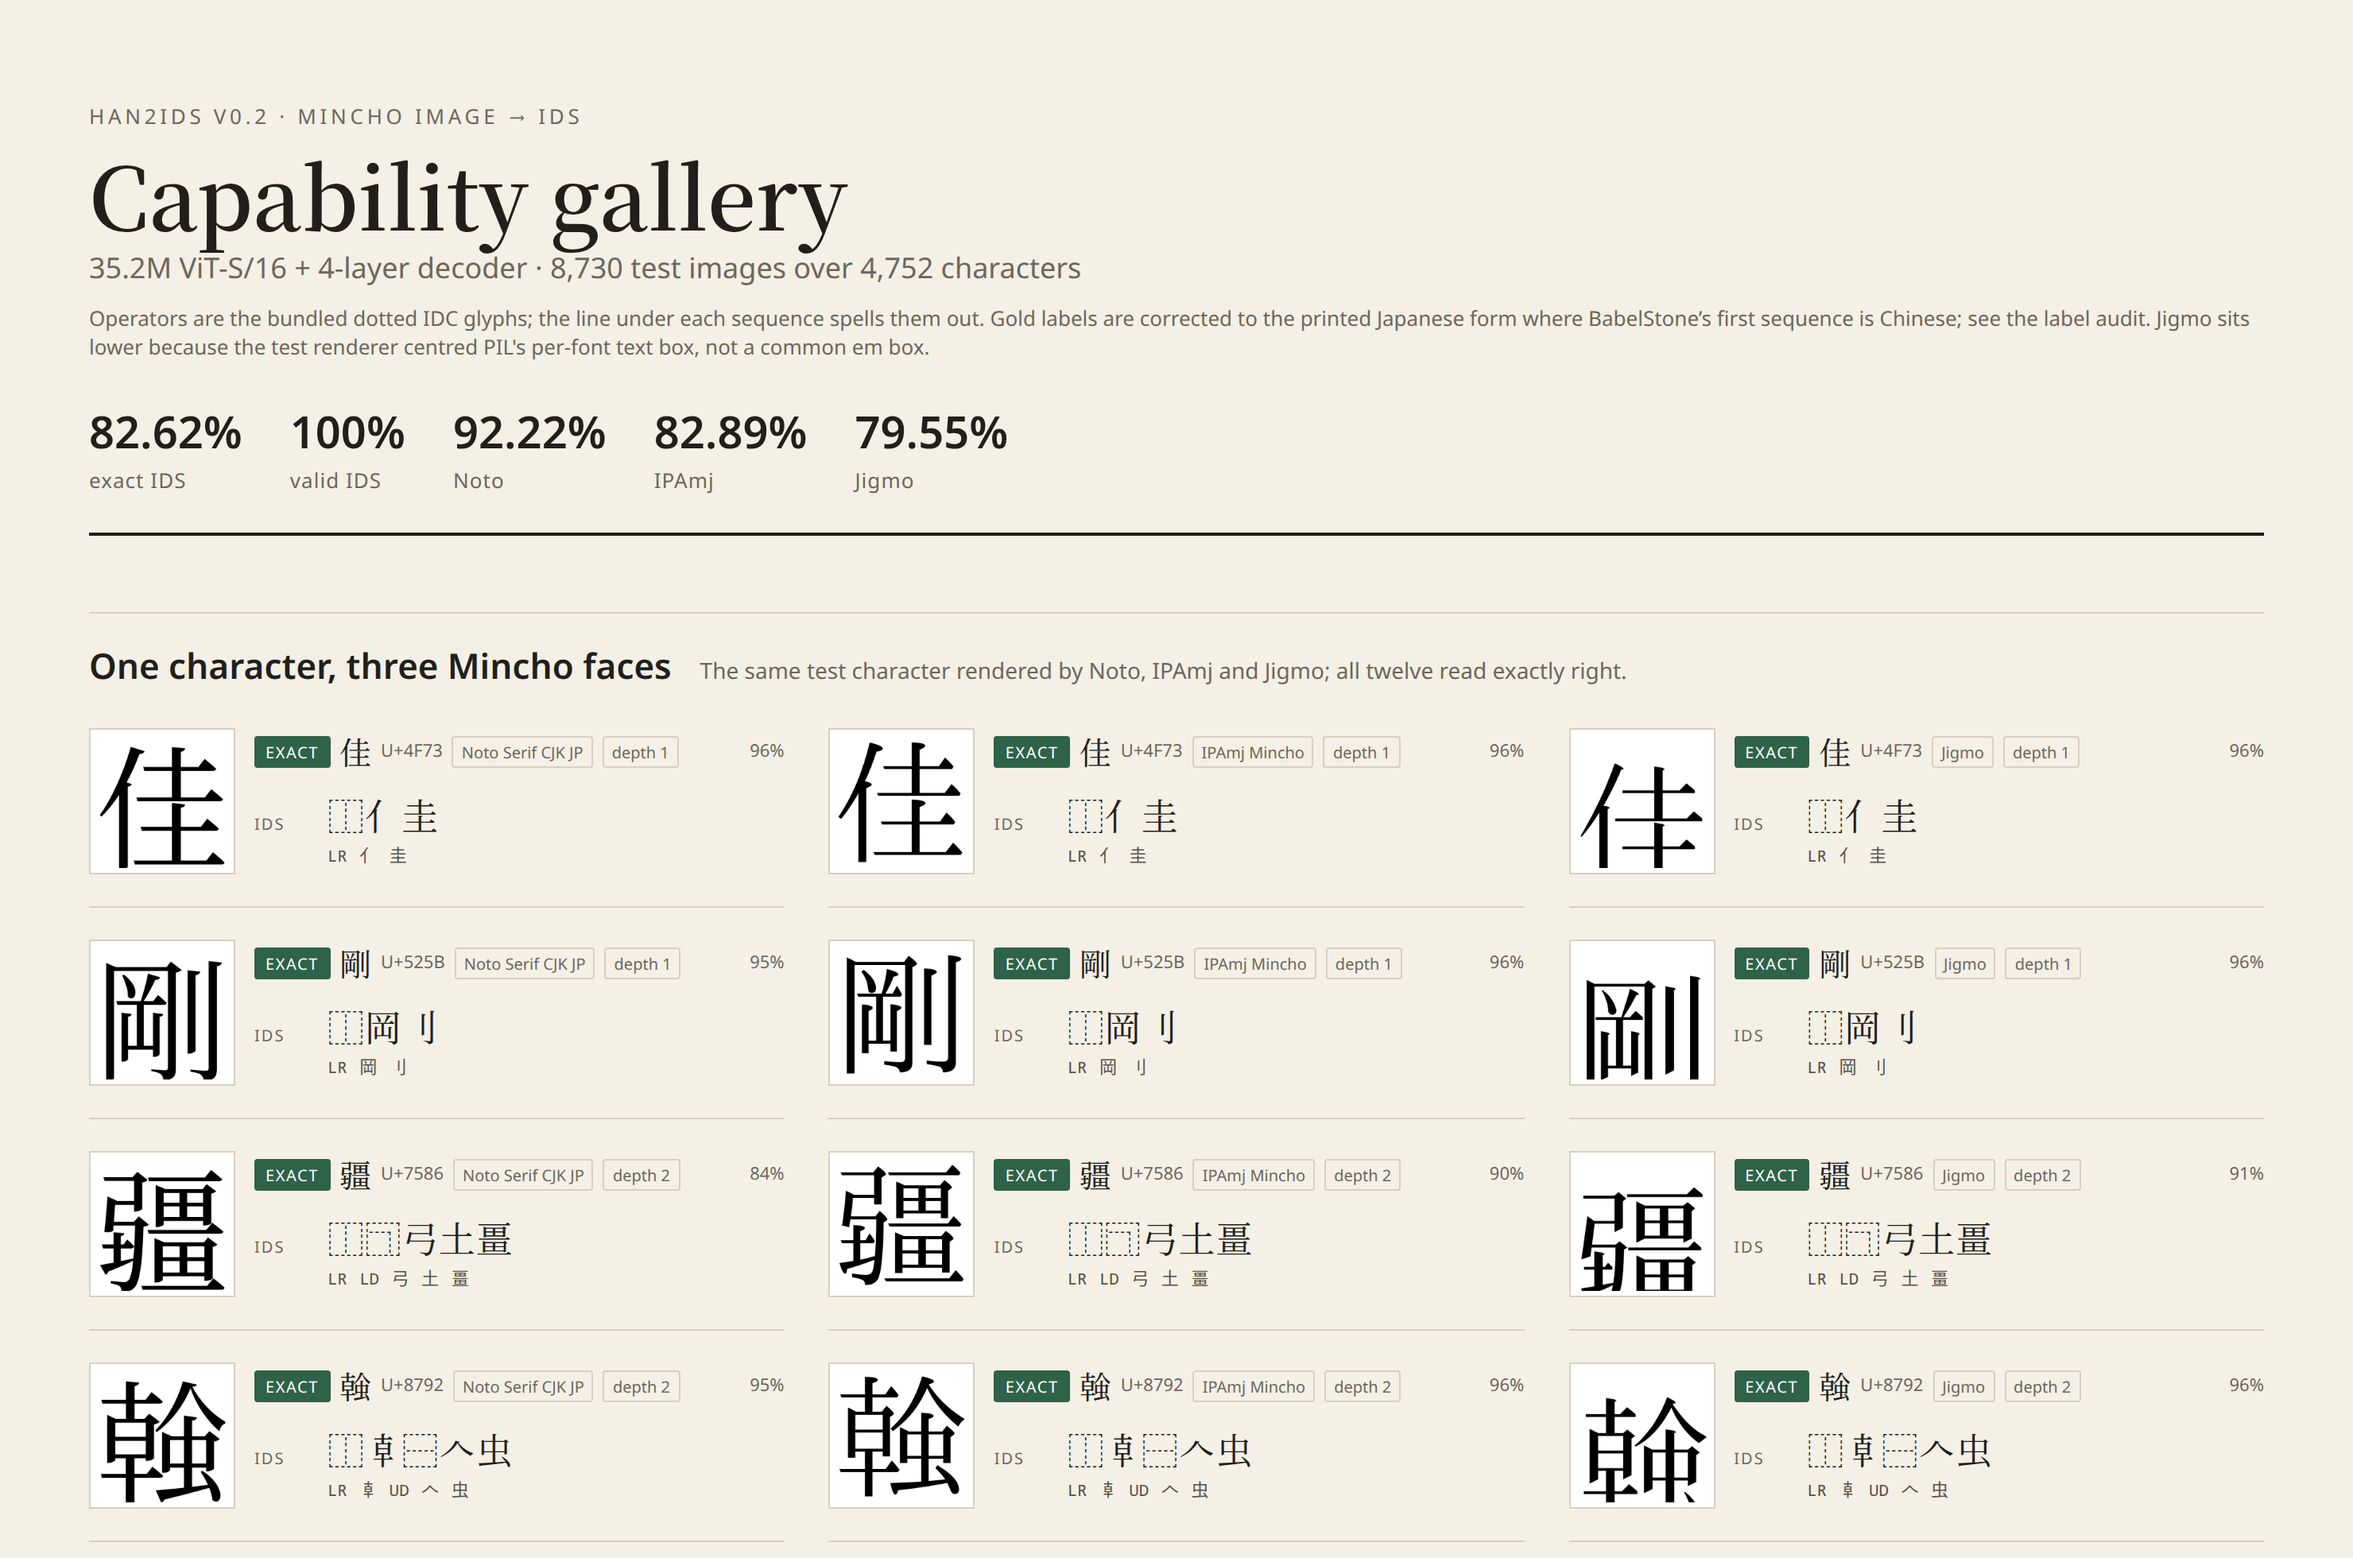
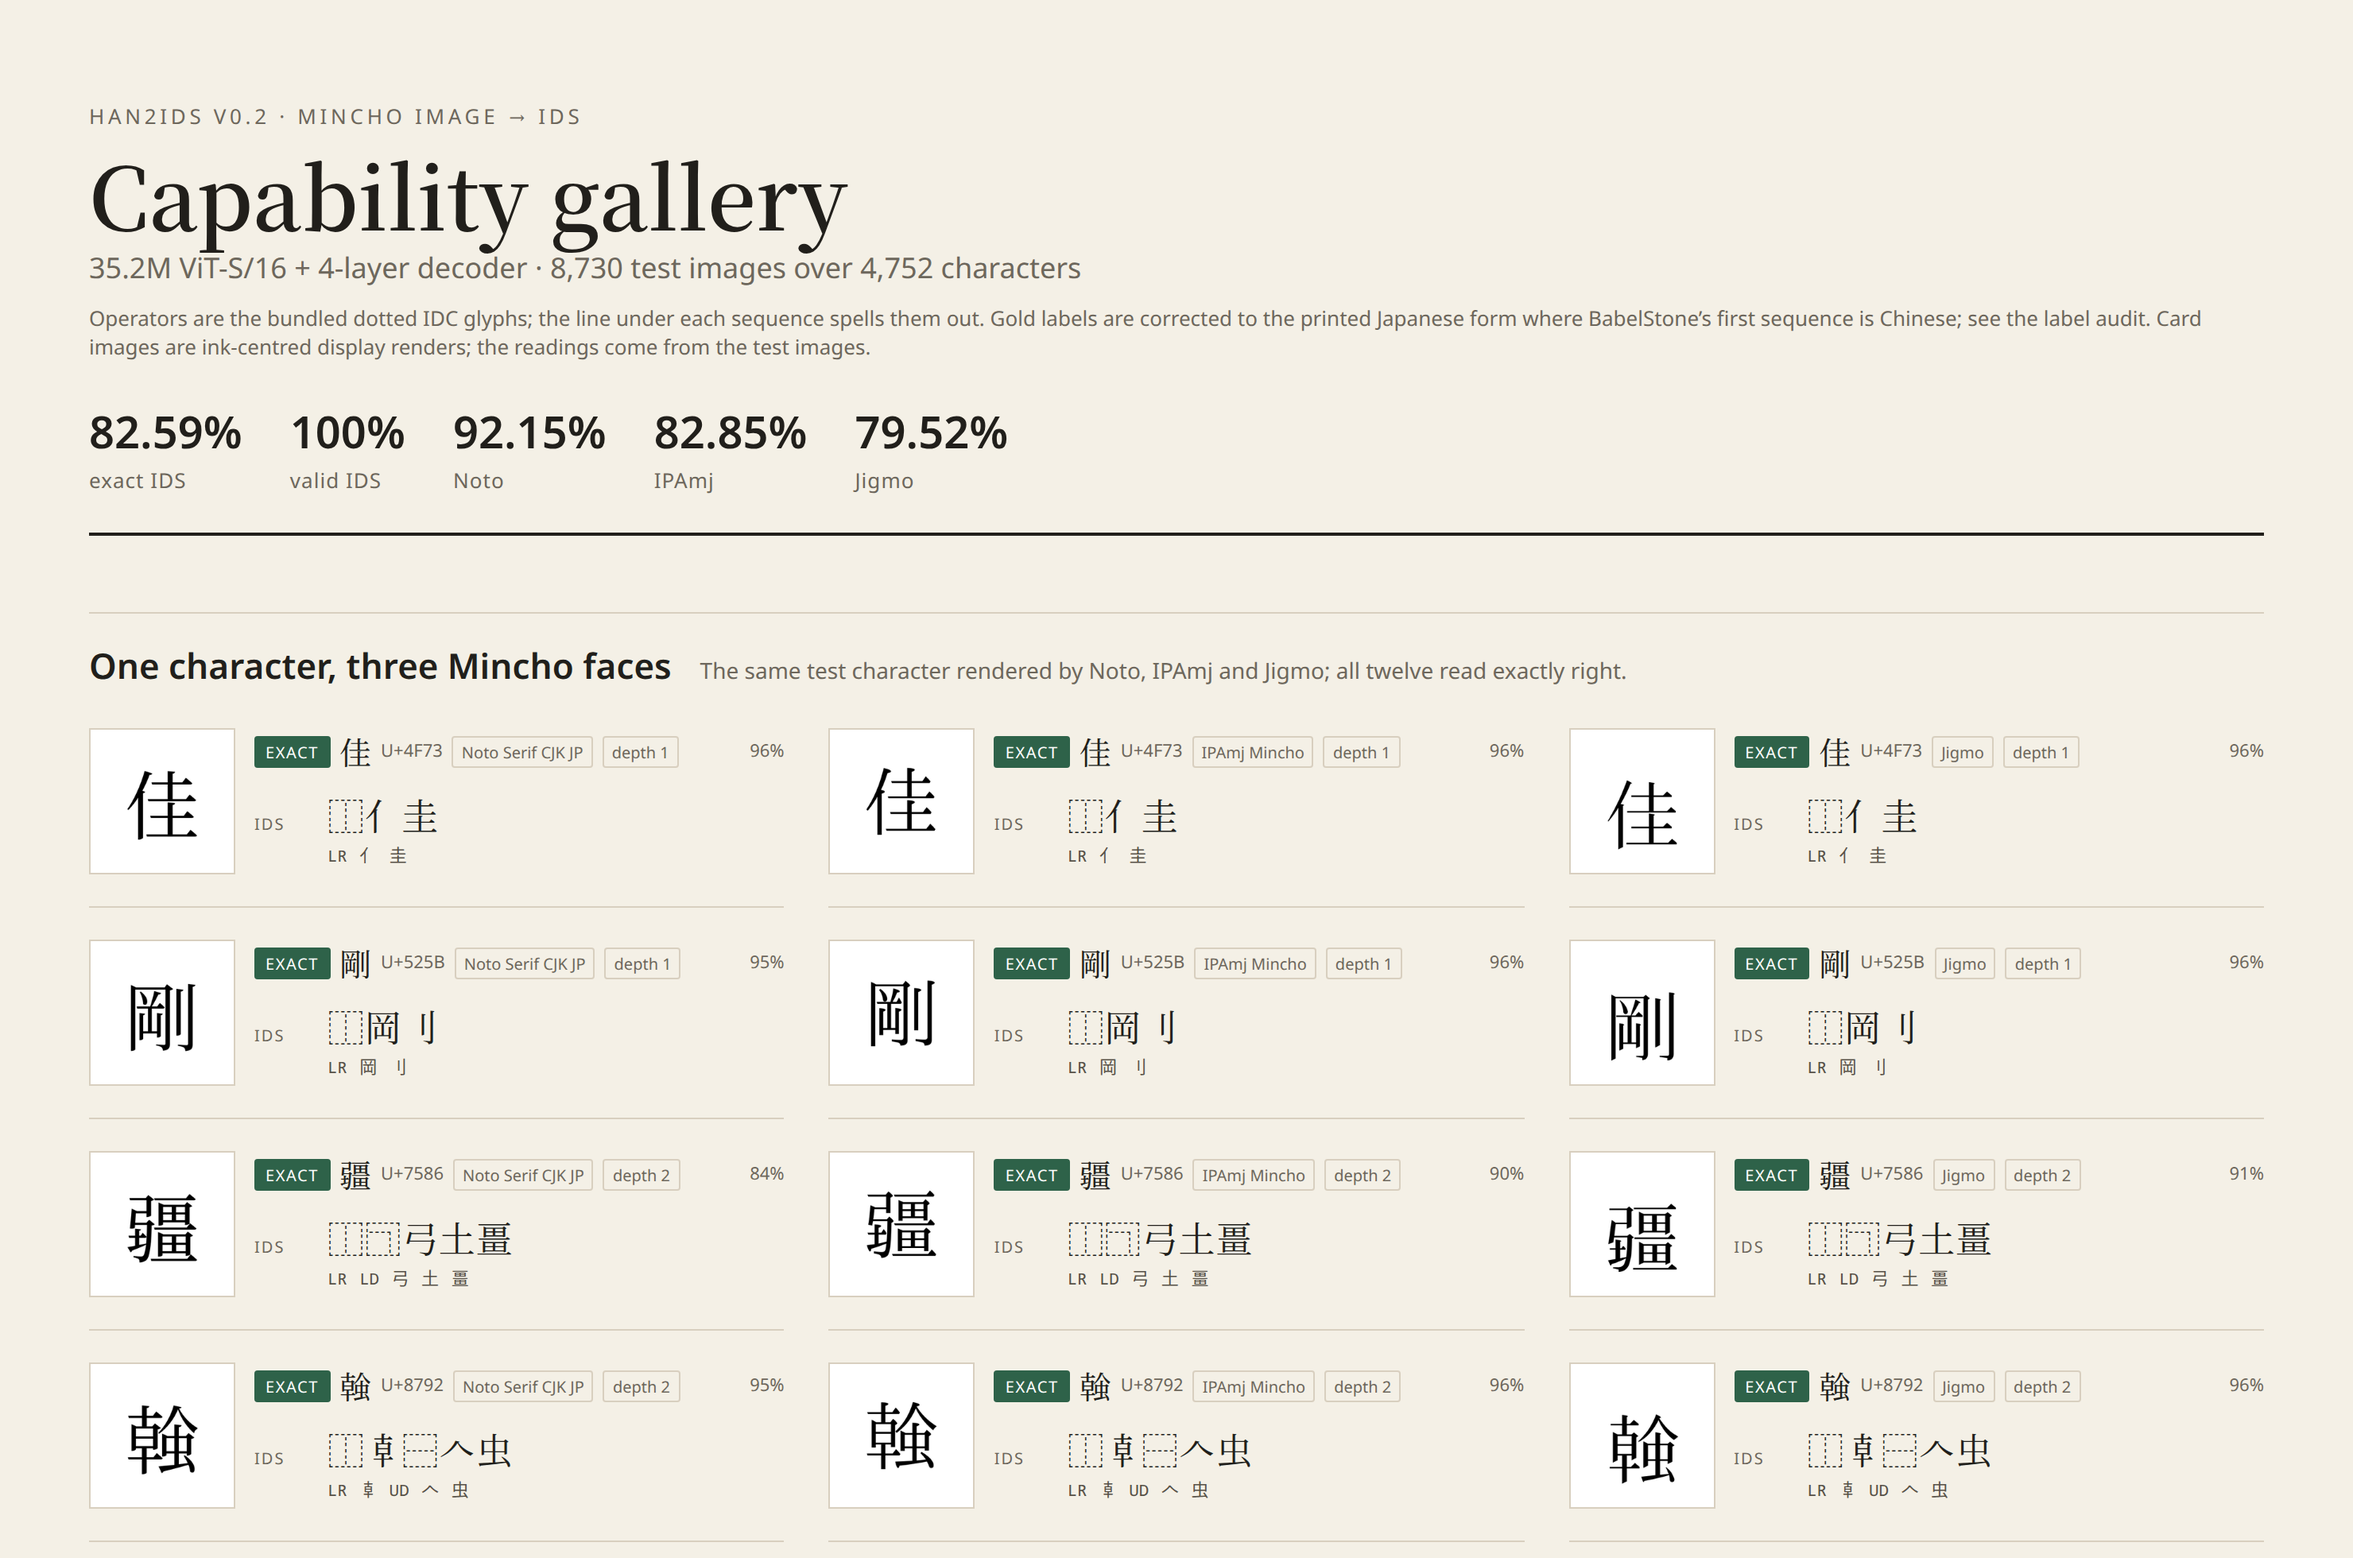
fix: keep 崢 as a reviewed miss

diff --git a/scripts/audit_labels.py b/scripts/audit_labels.py
@@ -30,7 +30,10 @@ changed_by_region = [(char, current.get(char), japanese[char], [s.regions for s 
 competition = []
 for char, sequences in records.items():
     if any("争" in s.text or "爭" in s.text for s in sequences):
-        competition.append((char, current.get(char), [(s.text, s.regions) for s in sequences], overrides.get(char, ("", ""))[1]))
+        note = overrides.get(char, ("", ""))[1]
+        if char == "崢":
+            note = "kept as ⿰山爭; the model emits ⿰山争; review open, not treated as exact"
+        competition.append((char, current.get(char), [(s.text, s.regions) for s in sequences], note))
 
 lines = ["# Label audit", "",
          "## Image-specific overrides", "",
@@ -38,7 +41,7 @@ lines = ["# Label audit", "",
 for char, before, after, note in changed_by_override:
     lines.append(f"| {char} | {before} | {after} | {note} |")
 lines += ["", f"## 争 / 爭 families ({len(competition)} characters)", "",
-          "The current label is the first BabelStone sequence unless an override above applies. The alternatives and region tags are listed for review; 淨, 靜, 掙, 睜 and 箏 genuinely use 爭 in Japanese, while 崢 is drawn with 争.", "",
+          "The current label is the first BabelStone sequence unless an override above applies. The alternatives and region tags are listed for review. 淨, 靜, 掙, 睜 and 箏 use 爭 in Japanese. 崢 remains an open case: the model emits 争 while the source has 爭, so it is not counted as exact.", "",
           "| char | current | sequences | note |", "| --- | --- | --- | --- |"]
 for char, value, sequences, note in competition:
     lines.append(f"| {char} | {value} | {' · '.join(f'{text} ({regions})' for text, regions in sequences)} | {note} |")

diff --git a/tests/test_labels.py b/tests/test_labels.py
@@ -16,4 +16,4 @@ def test_image_overrides():
     assert labels["船"] == "⿰舟㕣"
     assert labels["勇"] == "⿱龴男"
     assert labels["屄"] == "⿸尸宂"
-    assert labels["崢"] == "⿰山争"
+    assert labels["崢"] == "⿰山爭"

diff --git a/docs/label-audit.md b/docs/label-audit.md
@@ -7,11 +7,10 @@
 | 船 | ⿰舟⿱𠘧口 | ⿰舟㕣 | Japanese glyph uses 㕣; BabelStone's J sequence is ⿰舟㕣 (first is GP) |
 | 勇 | ⿱甬力 | ⿱龴男 | Japanese glyph uses 龴+男; BabelStone's J sequence is ⿱龴男 (first is GHTV) |
 | 屄 | ⿸尸穴 | ⿸尸宂 | Japanese glyph shows 宂, not 穴; BabelStone has no J row |
-| 崢 | ⿰山爭 | ⿰山争 | Japanese glyph uses 争; BabelStone's only row is ⿰山爭 for GHTJKPV |
 
 ## 争 / 爭 families (79 characters)
 
-The current label is the first BabelStone sequence unless an override above applies. The alternatives and region tags are listed for review; 淨, 靜, 掙, 睜 and 箏 genuinely use 爭 in Japanese, while 崢 is drawn with 争.
+The current label is the first BabelStone sequence unless an override above applies. The alternatives and region tags are listed for review. 淨, 靜, 掙, 睜 and 箏 use 爭 in Japanese. 崢 remains an open case: the model emits 争 while the source has 爭, so it is not counted as exact.
 
 | char | current | sequences | note |
 | --- | --- | --- | --- |
@@ -20,7 +19,7 @@ The current label is the first BabelStone sequence unless an override above appl
 | 埩 | ⿰土争 | ⿰土争 (G) · ⿰土爭 (HTJKV) |  |
 | 婙 | ⿰女争 | ⿰女争 (G) · ⿰女爭 (HT) |  |
 | 峥 | ⿰山争 | ⿰山争 (GHTK) |  |
-| 崢 | ⿰山争 | ⿰山爭 (GHTJKPV) | Japanese glyph uses 争; BabelStone's only row is ⿰山爭 for GHTJKPV |
+| 崢 | ⿰山爭 | ⿰山爭 (GHTJKPV) | kept as ⿰山爭; the model emits ⿰山争; review open, not treated as exact |
 | 挣 | ⿰扌争 | ⿰扌争 (GT) |  |
 | 掙 | ⿰扌爭 | ⿰扌爭 (GHTJKPV) |  |
 | 棦 | ⿰木争 | ⿰木争 (G) · ⿰木爭 (HTKV) |  |

diff --git a/README.md b/README.md
@@ -9,7 +9,7 @@ out of scope, so the model does not spend capacity on shapes it is not meant to 
 ![han2ids v0.2 capability gallery](docs/gallery-v0.2-cover.png)
 
 Status: v0.2, a 35.2M model trained on Noto Serif, IPAmj and the Jigmo family. On the 8,730-row
-mixed-font test split it reaches 82.62% exact IDS after the Japanese-label fixes and 100% valid IDS. The uncorrected-label score was 82.45%. On the earlier 4,839-character
+mixed-font test split it reaches 82.59% exact IDS after the Japanese-label fixes and 100% valid IDS. The uncorrected-label score was 82.45%. On the earlier 4,839-character
 synthetic serif split the v0.1 checkpoint reached 80.1%; see `docs/baseline.md`, `docs/training.md` and the [label audit](docs/label-audit.md). The full [capability gallery](docs/gallery-v0.2.png) shows 32 test cards across the three faces.
 
 ## Install

diff --git a/data/README.md b/data/README.md
@@ -1,6 +1,6 @@
 # Data
 
-`IDS.TXT` is BabelStone IDS with its region tags. `scripts/audit_labels.py` reads it and `data/label-overrides.tsv` records the four image-specific labels that the source cannot express. `babelstone-ids.tsv.gz` is the older compiled table without tags; the current scripts use `IDS.TXT`.
+`IDS.TXT` is BabelStone IDS with its region tags. `scripts/audit_labels.py` reads it and `data/label-overrides.tsv` records the three image-specific labels that the source cannot express. `babelstone-ids.tsv.gz` is the older compiled table without tags; the current scripts use `IDS.TXT`.
 
 `babelstone-ids.tsv.gz` is BabelStone IDS (IDS.TXT, file date 2025-06-27) by Andrew West, public
 domain, in the compiled `char<TAB>sequences` form used by the sibling ids-input project. It holds

diff --git a/docs/baseline.md b/docs/baseline.md
@@ -34,14 +34,14 @@ The full Mincho model, trained on 176,960 images (Noto, IPAmj and Jigmo) for 97,
 
 | test | exact | valid |
 | --- | ---: | ---: |
-| v0.2, 8,730 mixed-font rows, corrected labels | 82.62% | 100% |
+| v0.2, 8,730 mixed-font rows, corrected labels | 82.59% | 100% |
 | v0.1 on the same rows | 74.27% | 100% |
 
 | font | v0.2 | v0.1 |
 | --- | ---: | ---: |
-| Noto Serif CJK JP | 92.22% | 92.15% |
-| IPAmj Mincho | 82.89% | 84.32% |
-| Jigmo family | 79.55% | 63.47% |
+| Noto Serif CJK JP | 92.15% | 92.15% |
+| IPAmj Mincho | 82.85% | 84.32% |
+| Jigmo family | 79.52% | 63.47% |
 
 The gain is on Jigmo (+15.9 points); IPAmj gives up 1.6 points and Noto is flat. v0.2 is the default
 checkpoint.

diff --git a/docs/training.md b/docs/training.md
@@ -40,10 +40,10 @@ encoder.
 
 | test | v0.2 | v0.1 |
 | --- | ---: | ---: |
-| overall, corrected labels | 82.62% | 74.27% |
-| Noto | 92.22% | 92.15% |
-| IPAmj | 82.89% | 84.32% |
-| Jigmo | 79.55% | 63.47% |
+| overall, corrected labels | 82.59% | 74.27% |
+| Noto | 92.15% | 92.15% |
+| IPAmj | 82.85% | 84.32% |
+| Jigmo | 79.52% | 63.47% |
 
 Jigmo gains 15.9 points; IPAmj loses 1.6; Noto is unchanged. The result is in
 `docs/full-font-results.json`; the local checkpoint is `models/han2ids-v0.2.pt`.
